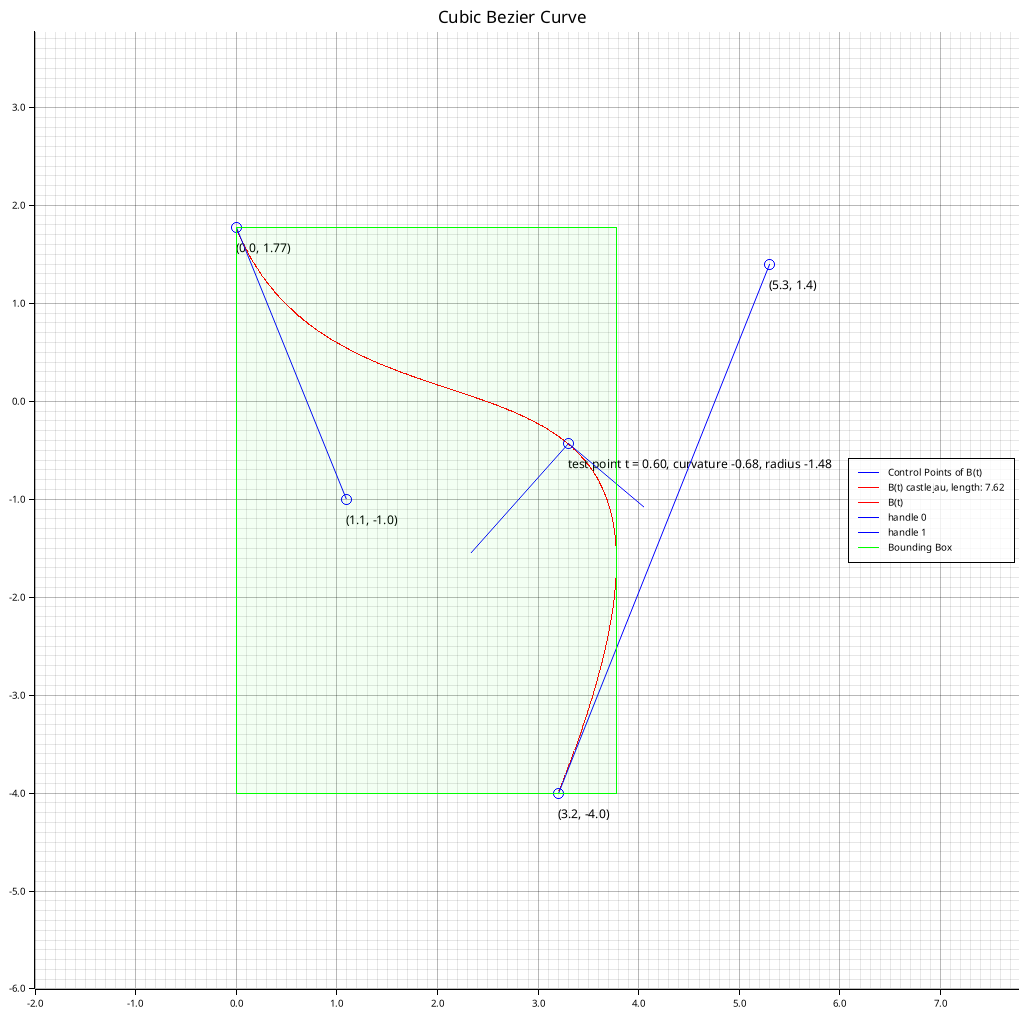
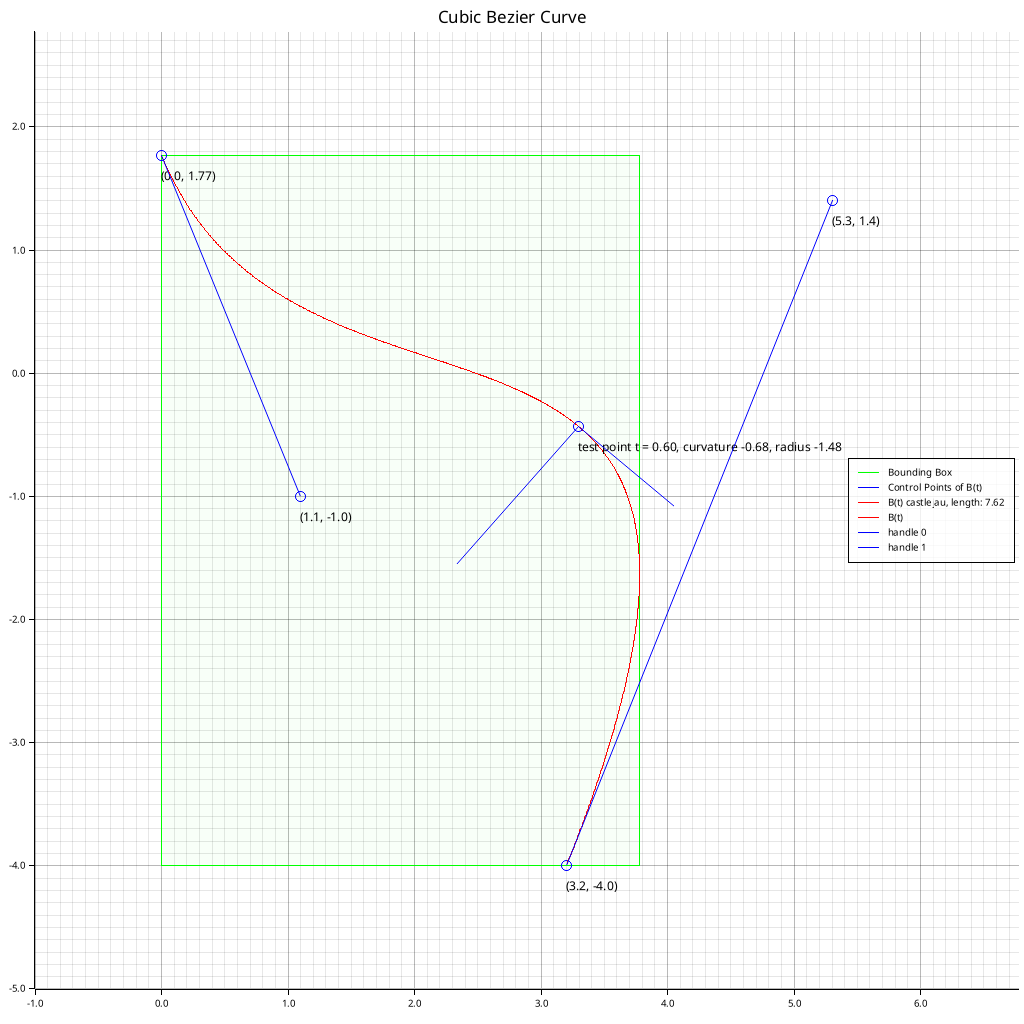
draw example bounding box under everything else

Changed region(s): [[0.0, 0.0312, 1.0, 0.9688]]

diff --git a/examples/plotters_cubic_bezier.rs b/examples/plotters_cubic_bezier.rs
@@ -54,8 +54,8 @@ fn main() -> Result<(), Box<dyn std::error::Error>> {
         .x_label_area_size(30)
         .y_label_area_size(30)
         .build_cartesian_2d(
-            (xmin - 2.0)..(xmin + dmax + 2.0),
-            (ymin - 2.0)..(ymin + dmax + 2.0),
+            (xmin - 1.0)..(xmin + dmax + 1.0),
+            (ymin - 1.0)..(ymin + dmax + 1.0),
         )?; // make graph a bit bigger than bounding box
 
     chart.configure_mesh().draw()?;
@@ -63,6 +63,25 @@ fn main() -> Result<(), Box<dyn std::error::Error>> {
     fn legend_pt(x: i32, y: i32) -> Vec<(i32, i32)> {
         vec![(x, y), (x + 20, y)]
     }
+
+    // draw the bounding box
+    chart
+        .draw_series(
+            AreaSeries::new(
+                vec![
+                    (xmin, ymin),
+                    (xmin, ymax),
+                    (xmax, ymax),
+                    (xmax, ymin),
+                    (xmin, ymin),
+                ],
+                0.0,
+                GREEN.mix(0.03),
+            )
+            .border_style(GREEN),
+        )?
+        .label("Bounding Box")
+        .legend(|(x, y)| PathElement::new(legend_pt(x, y), GREEN));
 
     // draw the control points of B(t)
     chart
@@ -173,25 +192,6 @@ fn main() -> Result<(), Box<dyn std::error::Error>> {
         .draw_series(LineSeries::new([cpoints[3], cpoints[2]], &BLUE))?
         .label("handle 1")
         .legend(|(x, y)| PathElement::new(legend_pt(x, y), BLUE));
-
-    // draw the bounding box
-    chart
-        .draw_series(
-            AreaSeries::new(
-                vec![
-                    (xmin, ymin),
-                    (xmin, ymax),
-                    (xmax, ymax),
-                    (xmax, ymin),
-                    (xmin, ymin),
-                ],
-                0.0,
-                GREEN.mix(0.05),
-            )
-            .border_style(GREEN),
-        )?
-        .label("Bounding Box")
-        .legend(|(x, y)| PathElement::new(legend_pt(x, y), GREEN));
 
     chart
         .configure_series_labels()
